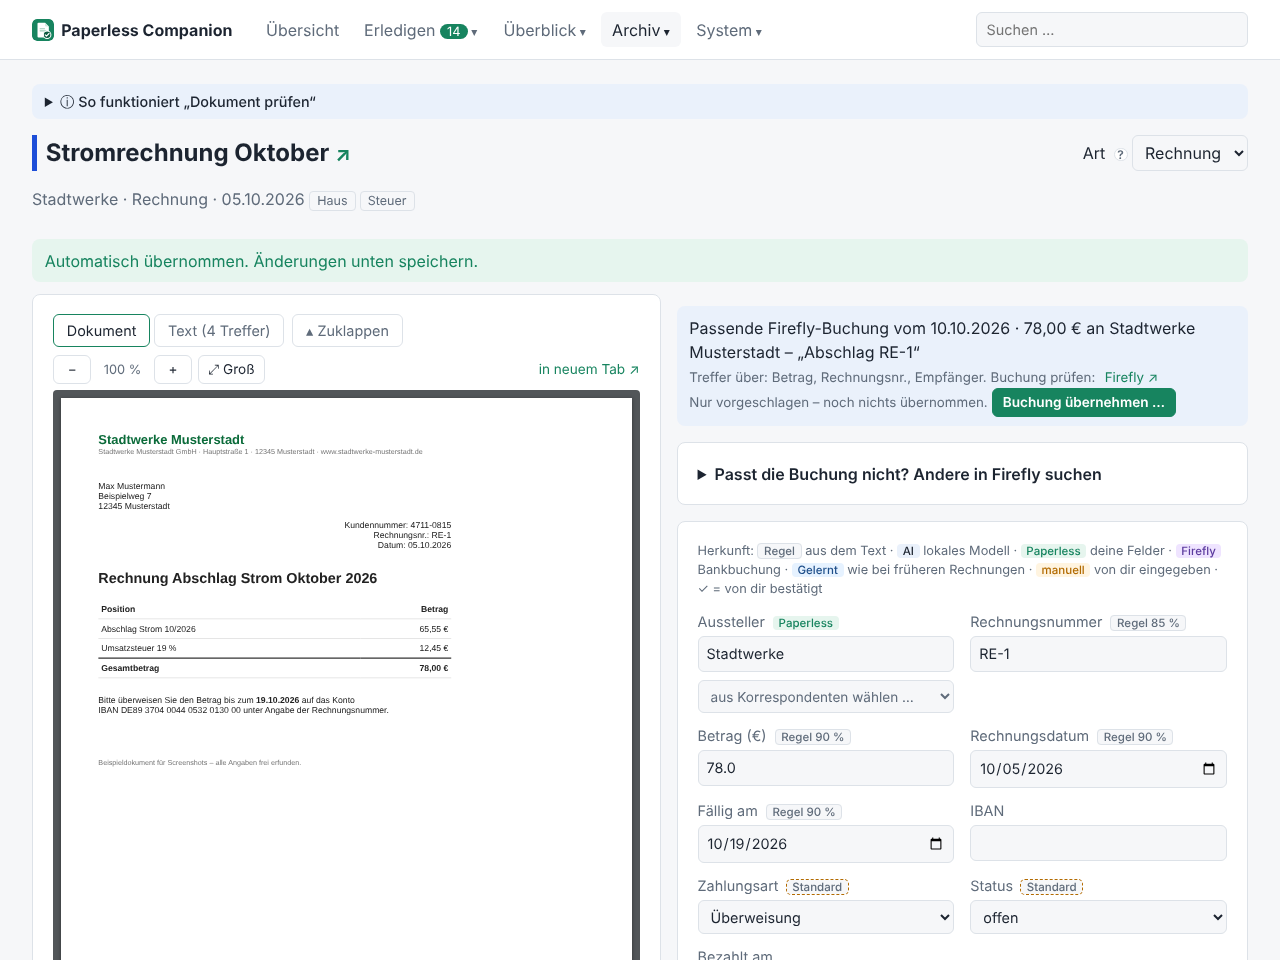
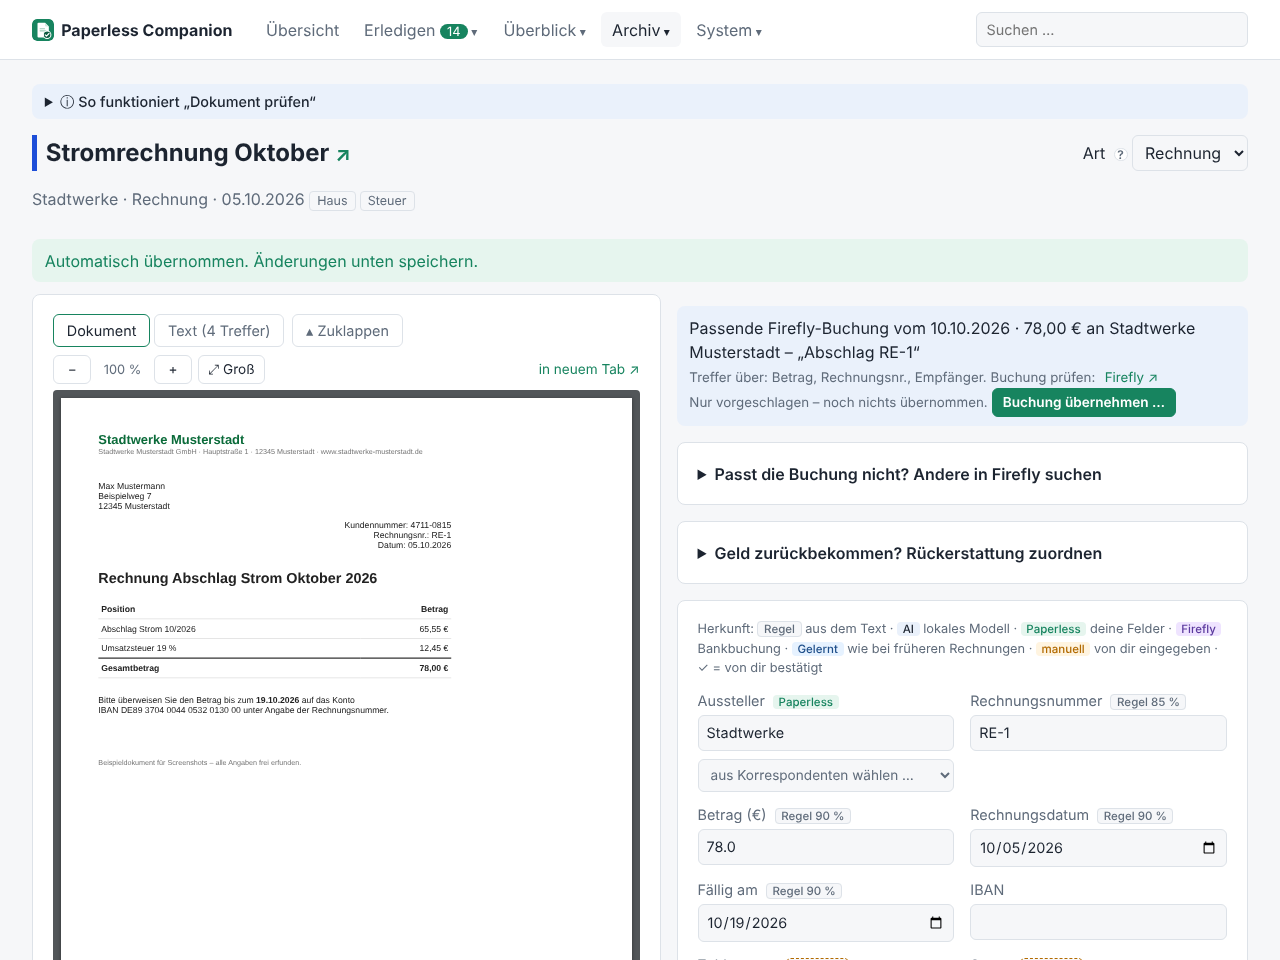
Rückerstattung an Rechnungen (Rücksendung, Gutschrift, Storno)
- Rechnung: Bereich „Rückerstattung zuordnen“ – Gutschrift unter den Firefly-Geldeingängen suchen oder von Hand eintragen
- Rechnung bleibt bezahlt; Rechnungsliste zeigt „… zurück · netto …“, Steuer-Export zählt nur den Rest (mit Hinweis)
- als Rückerstattung verwendete Geldeingänge werden keiner Leistungsabrechnung mehr vorgeschlagen

Claude-Session: https://claude.ai/code/session_01GZFJmjHzpJwZEudqzSRrzQ

diff --git a/app/templates/document.html b/app/templates/document.html
@@ -269,6 +269,51 @@ document.querySelectorAll('.ff-form').forEach((form) => form.addEventListener('s
 })();
 </script>
 {% endif %}
+{% if doc.kind == 'invoice' and doc.invoice and doc.review_state != 'pending' %}
+{% set inv = doc.invoice %}{% set rfd = refund_defaults(doc) %}
+<details class="card refund-box" id="refund" {{ 'open' if inv.refund_amount }}>
+  <summary>{% if inv.refund_amount %}Rückerstattung: {{ inv.refund_amount|eur }} am {{ inv.refunded_on|d }}{% if inv.amount and inv.refund_amount < inv.amount %} · kostet dich noch {{ inv.net_amount|eur }}{% else %} · vollständig erstattet{% endif %}
+    {% else %}Geld zurückbekommen? Rückerstattung zuordnen{% endif %}</summary>
+  {% if inv.refund_amount %}
+  <div>{{ 'Aus Firefly' if inv.refund_tx_id else 'Von dir eingetragen' }}{% if inv.refund_tx_id %}:{{ txlinks(inv.refund_tx_group_id, inv.refunded_on) }}{% endif %}
+    <form method="post" action="/documents/{{ doc.id }}/refund" class="inline"><input type="hidden" name="action" value="clear">
+      <button class="small link">entfernen</button></form></div>
+  {% endif %}
+  <p class="muted"><small>Für Rücksendungen, Gutschriften oder Stornos: die Rechnung bleibt bezahlt, als Kosten zählt nur der Rest
+    (auch im Steuer-Export).</small></p>
+  {% if settings.firefly_url and settings.firefly_token %}
+  <form class="rf-form" data-url="/documents/{{ doc.id }}/firefly-search">
+    <input type="hidden" name="refund" value="1">
+    <div class="grid">
+      <label class="field"><span>Betrag (€)</span><input name="amount" inputmode="decimal" value="{{ '%.2f'|format(rfd.amount) if rfd.amount is not none }}" placeholder="leer = egal"></label>
+      <label class="field"><span>Suchtext (Absender, Verwendungszweck)</span><input name="q" value="{{ rfd.q }}"></label>
+      <label class="field"><span>von</span><input type="date" name="start" value="{{ rfd.start.isoformat() if rfd.start }}"></label>
+      <label class="field"><span>bis</span><input type="date" name="end" value="{{ rfd.end.isoformat() if rfd.end }}"></label>
+    </div>
+    <button class="small primary">Gutschrift in Firefly suchen</button>
+    <small class="muted">Gesucht wird unter den Geldeingängen. Teilerstattungen stehen unter „weitere Buchungen mit anderem Betrag“.</small>
+  </form>
+  <div class="rf-results" aria-live="polite"></div>
+  {% endif %}
+  <form method="post" action="/documents/{{ doc.id }}/refund" class="rf-manual">
+    <span class="muted">Oder von Hand:</span>
+    <input name="amount" inputmode="decimal" placeholder="Betrag €" aria-label="Erstatteter Betrag" value="{{ '%.2f'|format(inv.refund_amount) if inv.refund_amount }}">
+    <input type="date" name="date" aria-label="Erstattet am" value="{{ inv.refunded_on.isoformat() if inv.refunded_on }}">
+    <button class="small">Speichern</button>
+  </form>
+</details>
+<script>
+document.querySelectorAll('.rf-form').forEach((form) => form.addEventListener('submit', async (e) => {
+  e.preventDefault();
+  const out = form.parentElement.querySelector('.rf-results');
+  out.innerHTML = '<p class="muted">Suche in Firefly …</p>';
+  try {
+    const r = await fetch(form.dataset.url + '?' + new URLSearchParams(new FormData(form)));
+    out.innerHTML = await r.text();
+  } catch (err) { out.innerHTML = '<p class="bad">Suche fehlgeschlagen.</p>'; }
+}));
+</script>
+{% endif %}
 <form method="post" action="/documents/{{ doc.id }}/confirm" class="card">
   <p class="legend-sources muted">Herkunft:
     <span class="badge src-rule">Regel</span> aus dem Text ·

diff --git a/app/templates/_firefly_search.html b/app/templates/_firefly_search.html
@@ -11,7 +11,14 @@
     </div>
     <div class="ff-actions">
       {{ txlinks(tx.group_id, tx.date) }}
-      {% if not f.partial %}{# eine von mehreren Teilzahlungen: „übernehmen“ würde die anderen lösen #}
+      {% if refund %}
+      <form method="post" action="/documents/{{ doc.id }}/refund" class="inline">
+        {% for k, v in [('tx_id', tx.journal_id), ('group_id', tx.group_id), ('date', tx.date.isoformat()), ('amount', tx.amount),
+                        ('counterparty', tx.counterparty)] %}
+        <input type="hidden" name="{{ k }}" value="{{ v }}">{% endfor %}
+        <button class="small primary">{{ 'Erneut übernehmen' if f.current else 'Als Rückerstattung übernehmen' }}</button>
+      </form>
+      {% elif not f.partial %}{# eine von mehreren Teilzahlungen: „übernehmen“ würde die anderen lösen #}
       <form method="post" action="/documents/{{ doc.id }}/payment" class="inline ff-choose">
         {% for k, v in [('tx_id', tx.journal_id), ('group_id', tx.group_id), ('date', tx.date.isoformat()), ('amount', tx.amount),
                         ('counterparty', tx.counterparty), ('iban', tx.iban or ''), ('description', tx.description)] %}
@@ -19,7 +26,7 @@
         <button class="small primary">{{ 'Werte erneut übernehmen' if f.current and f.state == 'accepted' else ('Werte übernehmen' if f.current else 'Diese übernehmen') }}</button>
       </form>
       {% endif %}
-      {% if not f.current and doc.kind == 'invoice' and doc.invoice and doc.review_state != 'pending' %}
+      {% if not refund and not f.current and doc.kind == 'invoice' and doc.invoice and doc.review_state != 'pending' %}
       <form method="post" action="/documents/{{ doc.id }}/payment" class="inline ff-choose">
         {% for k, v in [('tx_id', tx.journal_id), ('group_id', tx.group_id), ('date', tx.date.isoformat()), ('amount', tx.amount),
                         ('counterparty', tx.counterparty), ('iban', tx.iban or ''), ('description', tx.description)] %}
@@ -42,7 +49,7 @@
   {% for f in fits %}{{ ff_item(f) }}{% endfor %}
 </ul>
 {% else %}
-<p class="muted">Keine Abbuchung mit passendem Betrag vom {{ start|d }} bis {{ end|d }}.</p>
+<p class="muted">Keine {{ 'Gutschrift' if refund else 'Abbuchung' }} mit passendem Betrag vom {{ start|d }} bis {{ end|d }}.</p>
 {% endif %}
 {% if others %}
 <details class="ff-others" {{ 'open' if not fits }}>
@@ -61,5 +68,5 @@
 </details>
 {% endif %}
 {% else %}
-<p class="muted">Keine passende Abbuchung vom {{ start|d }} bis {{ end|d }} gefunden. Zeitraum erweitern oder Betrag/Suchtext ändern.</p>
+<p class="muted">Keine passende {{ 'Gutschrift' if refund else 'Abbuchung' }} vom {{ start|d }} bis {{ end|d }} gefunden. Zeitraum erweitern oder Betrag/Suchtext ändern.</p>
 {% endif %}

diff --git a/app/templates/invoices.html b/app/templates/invoices.html
@@ -43,7 +43,8 @@
     {% set overdue = i.status == 'open' and i.payment_method != 'debit' and i.due_date and i.due_date < today %}
     <tr class="{{ 'overdue' if overdue }}">
       <td><a href="/documents/{{ i.document_id }}">{{ i.issuer or i.document.title }}</a> {{ doclink(i.document_id) }}</td>
-      <td class="nowrap">{{ i.amount|eur }}{% if i.paid_amount and i.status == 'open' %}<br><small class="muted" title="Teilzahlungen: {{ i.paid_amount|eur }} bezahlt">noch {{ i.open_amount|eur }} offen</small>{% endif %}</td>
+      <td class="nowrap">{{ i.amount|eur }}{% if i.paid_amount and i.status == 'open' %}<br><small class="muted" title="Teilzahlungen: {{ i.paid_amount|eur }} bezahlt">noch {{ i.open_amount|eur }} offen</small>{% endif %}
+        {%- if i.refund_amount %}<br><small class="muted" title="Rückerstattung am {{ i.refunded_on|d }}">{{ i.refund_amount|eur }} zurück{% if i.amount and i.refund_amount < i.amount %} · netto {{ i.net_amount|eur }}{% endif %}</small>{% endif %}</td>
       <td class="nowrap">
         {% if i.payment_method == 'debit' %}<span class="tag">Lastschrift</span>
         {% else %}{{ i.due_date|d }}{% if overdue %} <span class="tag tag-overdue">überfällig</span>{% endif %}{% endif %}

diff --git a/app/static/style.css b/app/static/style.css
@@ -824,3 +824,8 @@ button:disabled, button:disabled:hover { opacity: .5; cursor: not-allowed; }
 .cancel-item { border-top: 1px solid var(--border); padding: .75rem 0 .25rem; }
 .cancel-item:first-of-type { border-top: 0; }
 .cancel-doc small { display: block; }
+
+/* Rückerstattung an einer Rechnung */
+.refund-box > summary { cursor: pointer; font-weight: 600; }
+.rf-manual { display: flex; flex-wrap: wrap; gap: .4rem .6rem; align-items: center; margin-top: .75rem; }
+.rf-manual input { width: 10rem; }

diff --git a/app/main.py b/app/main.py
@@ -101,6 +101,7 @@ def create_app(settings: Settings | None = None, start_worker: bool = True) -> F
 
     templates.env.globals["payment_of"] = payment_of
     templates.env.globals["ff_defaults"] = payments.search_defaults
+    templates.env.globals["refund_defaults"] = payments.refund_defaults
 
     def partials_of(doc: Document) -> list:
         with session_scope() as s:
@@ -521,12 +522,14 @@ def create_app(settings: Settings | None = None, start_worker: bool = True) -> F
 
     @app.get("/documents/{doc_id}/firefly-search", response_class=HTMLResponse)
     def document_firefly_search(request: Request, doc_id: int, amount: str = "", start: str = "", end: str = "", q: str = "",
-                                session: Session = Depends(get_session)):
-        """Buchungen in Firefly zu diesem Dokument suchen (Ergebnisliste wird in die Seite geladen)."""
+                                refund: str = "", session: Session = Depends(get_session)):
+        """Buchungen in Firefly zu diesem Dokument suchen (Ergebnisliste wird in die Seite geladen).
+        Mit refund=1: Geldeingänge als Rückerstattung einer Rechnung."""
         doc = session.get(Document, doc_id)
         if doc is None:
             raise HTTPException(404)
-        d = payments.search_defaults(doc)
+        is_refund = bool(refund) and doc.invoice is not None
+        d = payments.refund_defaults(doc) if is_refund else payments.search_defaults(doc)
         try:
             value = float(amount.replace(",", ".")) if amount.strip() else None
             start_d = date.fromisoformat(start) if start else d["start"]
@@ -541,12 +544,43 @@ def create_app(settings: Settings | None = None, start_worker: bool = True) -> F
         if client is None:
             return HTMLResponse('<p class="bad">Firefly ist nicht eingerichtet (Einstellungen → Firefly).</p>')
         try:
-            found = payments.search(session, doc, client, today(), value, start_d, end_d, q)
+            found = payments.search(session, doc, client, today(), value, start_d, end_d, q, refund=is_refund)
         except FireflyError as exc:
             return HTMLResponse(f'<p class="bad">Firefly nicht erreichbar: {exc}</p>')
         finally:
             client.close()
-        return render(request, "_firefly_search.html", doc=doc, found=found, start=start_d, end=end_d, amount=value)
+        return render(request, "_firefly_search.html", doc=doc, found=found, start=start_d, end=end_d, amount=value,
+                      refund=is_refund)
+
+    @app.post("/documents/{doc_id}/refund")
+    async def document_refund(request: Request, doc_id: int, session: Session = Depends(get_session)):
+        """Rückerstattung zu einer Rechnung: Geldeingang aus Firefly, von Hand eingetragen oder entfernen."""
+        doc = session.get(Document, doc_id)
+        if doc is None or doc.invoice is None:
+            raise HTTPException(404)
+        form = await request.form()
+        from app.firefly import Transaction
+
+        if form.get("action") == "clear":
+            payments.clear_refund(doc)
+            msg = "Rückerstattung entfernt"
+        else:
+            try:
+                amount = pipeline.coerce("float", str(form.get("amount") or ""))
+                day = pipeline.coerce("date", str(form.get("date") or ""))
+            except ValueError:
+                amount = day = None
+            if not amount or day is None:
+                return RedirectResponse(f"/documents/{doc_id}?msg={quote('Bitte Betrag und Datum der Rückerstattung angeben')}#refund",
+                                        status_code=303)
+            tx = None
+            if form.get("tx_id"):
+                tx = Transaction(journal_id=str(form["tx_id"]), group_id=str(form.get("group_id") or ""), date=day,
+                                 amount=amount, counterparty=str(form.get("counterparty") or ""), iban=None,
+                                 description="", text="")
+            result = payments.set_refund(doc, amount, day, tx)
+            msg = f"Rückerstattung {amount:.2f} € vom {day:%d.%m.%Y} gespeichert – {result}".replace(".", ",", 1)
+        return RedirectResponse(f"/documents/{doc_id}?msg={quote(msg)}#refund", status_code=303)
 
     @app.post("/documents/{doc_id}/payment")
     async def document_payment_choose(request: Request, doc_id: int, session: Session = Depends(get_session)):

diff --git a/tests/test_payments.py b/tests/test_payments.py
@@ -370,3 +370,49 @@ def test_assigned_transaction_not_reused(db, settings):
         payments.match(s, [tx("900", date(2026, 10, 10), 78.0, "Stadtwerke", "Abschlag")], settings)
         assert [(m.invoice.document_id, m.tx_id) for m in s.query(PaymentMatch)] == [(2, "900")]  # nur für Dokument 2
         assert payments.used_elsewhere(s, exclude_doc=1) == {"900": 2}
+
+
+def test_refund_on_invoice(client, mock_api):
+    """Rücksendung/Gutschrift: Geldeingang aus Firefly oder von Hand; Rechnung bleibt bezahlt, es zählt der Rest."""
+    from app import tax
+
+    with session_scope() as s:
+        doc = s.get(Document, 1)
+        doc.review_state, doc.tags = "confirmed", ["Steuer"]
+        doc.invoice.amount, doc.invoice.status = 120.0, "paid"
+    route = mock_api.get(f"{FIREFLY}/api/v1/transactions").respond(json={"data": [{"type": "transactions", "id": "77", "attributes": {
+        "transactions": [{"transaction_journal_id": "770", "type": "deposit", "date": "2026-10-20T00:00:00+02:00", "amount": "40.00",
+                          "description": "Gutschrift Rücksendung", "source_name": "Stadtwerke"}]}}],
+        "meta": {"pagination": {"total_pages": 1}}})
+    page = client.get("/documents/1").text
+    assert "Rückerstattung zuordnen" in page
+    html = client.get("/documents/1/firefly-search", params={"refund": "1", "amount": "40", "q": "Stadtwerke",
+                                                             "start": "2026-10-01", "end": "2026-10-31"}).text
+    assert "Als Rückerstattung übernehmen" in html and dict(route.calls.last.request.url.params)["type"] == "deposit"
+    r = client.post("/documents/1/refund", data={"tx_id": "770", "group_id": "77", "date": "2026-10-20", "amount": "40.0",
+                                                 "counterparty": "Stadtwerke"})
+    assert "teilweise erstattet – kostet dich noch 80,00 €" in r.text
+    with session_scope() as s:
+        inv = s.get(Document, 1).invoice
+        assert inv.status == "paid" and inv.refund_amount == 40.0 and inv.net_amount == 80.0 and inv.refund_tx_id == "770"
+        assert payments.refund_transactions(s) == {"770": 1}
+    assert "40,00 € zurück · netto 80,00" in client.get("/invoices?status=all").text
+    client.post("/documents/1/refund", data={"amount": "120,00", "date": "2026-10-21"})  # von Hand: alles zurück
+    with session_scope() as s:
+        assert s.get(Document, 1).invoice.net_amount == 0.0 and s.get(Document, 1).invoice.refund_tx_id is None
+    client.post("/documents/1/refund", data={"action": "clear"})
+    with session_scope() as s:
+        assert s.get(Document, 1).invoice.refund_amount is None
+
+
+def test_tax_counts_net_after_refund(db, settings):
+    from app import tax
+
+    with db() as s:
+        inv = add_invoice(s, 1, 120.0, created=date(2026, 3, 1))
+        inv.document.tags, inv.document.review_state = ["Steuer"], "confirmed"
+        inv.refund_amount, inv.refunded_on = 40.0, date(2026, 3, 20)
+    settings.tax_tags = "Steuer"
+    with db() as s:
+        item = next(i for i in tax.collect(s, 2026, settings) if i.doc.id == 1)
+        assert item.amount == 80.0 and item.refund == "Rückerstattung 40,00 € am 20.03.2026, ursprünglich 120,00 €"

diff --git a/app/payments.py b/app/payments.py
@@ -416,16 +416,54 @@ def search_defaults(doc: Document) -> dict:
             "invoice_number": number, "iban": iban}
 
 
+def refund_defaults(doc: Document) -> dict:
+    """Suche nach der Rückerstattung: ab Rechnung/Zahlung ein halbes Jahr, Betrag der Rechnung, Absender = Aussteller."""
+    inv = doc.invoice
+    base = (inv.paid_on or inv.invoice_date) if inv else None
+    base = base or doc.created
+    return {"amount": inv.amount if inv else None, "start": base, "end": base + timedelta(days=180) if base else None,
+            "q": (inv.issuer if inv else None) or doc.correspondent or ""}
+
+
+def set_refund(doc: Document, amount: float, day: date, tx: Transaction | None = None) -> str:
+    inv = doc.invoice
+    inv.refund_amount, inv.refunded_on = round(amount, 2), day
+    inv.refund_tx_id, inv.refund_tx_group_id = (tx.journal_id, tx.group_id) if tx else (None, None)
+    from app import pipeline
+
+    pipeline.set_source(doc, ["refund_amount", "refunded_on"], "firefly" if tx else "manual", confirmed=True)
+    full = inv.amount is not None and inv.refund_amount >= inv.amount - 0.005
+    return "vollständig erstattet" if full else f"teilweise erstattet – kostet dich noch {inv.net_amount:.2f} €".replace(".", ",")
+
+
+def clear_refund(doc: Document) -> None:
+    inv = doc.invoice
+    inv.refund_amount = inv.refunded_on = inv.refund_tx_id = inv.refund_tx_group_id = None
+
+
+def refund_transactions(session: Session, exclude_doc: int | None = None) -> dict[str, int]:
+    """Geldeingänge, die schon als Rückerstattung einer Rechnung gelten (tx_id -> Dokument)."""
+    return {inv.refund_tx_id: inv.document_id for inv in session.scalars(select(Invoice).where(Invoice.refund_tx_id.is_not(None)))
+            if inv.document_id != exclude_doc}
+
+
 def search(session: Session, doc: Document, client: FireflyClient, today: date, amount: float | None,
-           start: date, end: date, q: str = "", limit: int = 30) -> list[dict]:
+           start: date, end: date, q: str = "", limit: int = 30, refund: bool = False) -> list[dict]:
     """Abbuchungen im Zeitraum, die zu Betrag, Suchtext, Rechnungsnr. oder IBAN passen – beste zuerst."""
     from app import reimbursements
 
     d = search_defaults(doc)
     words = _words(q)
-    incoming = doc.kind == "reimbursement"  # Erstattung: Geldeingänge statt Abbuchungen
+    incoming = doc.kind == "reimbursement" or refund  # Erstattung/Rückerstattung: Geldeingänge statt Abbuchungen
     partial_ids: set[str] = set()
-    if incoming:
+    if refund:
+        from app.models import Reimbursement
+
+        used = {r.tx_id: r.document_id for r in session.scalars(select(Reimbursement).where(Reimbursement.tx_id.is_not(None)))}
+        used.update(refund_transactions(session, exclude_doc=doc.id))
+        current = doc.invoice.refund_tx_id if doc.invoice else None
+        current_state = "accepted"
+    elif incoming:
         from app.models import Reimbursement
 
         used = {r.tx_id: r.document_id for r in session.scalars(select(Reimbursement).where(Reimbursement.tx_id.is_not(None)))

diff --git a/app/tax.py b/app/tax.py
@@ -59,12 +59,13 @@ def _candidates(session: Session):
     return session.scalars(select(Document).options(selectinload(Document.invoice)))
 
 
+def eur(value) -> str:
+    return "?" if value is None else f"{value:,.2f} €".replace(",", "X").replace(".", ",").replace("X", ".")
+
+
 def refund_notes(session: Session) -> dict[int, str]:
     """Je Rechnung die Erstattung(en), mit denen sie in Paperless verknüpft ist – Eigenanteil je Abrechnung."""
     from app import reimbursements
-
-    def eur(value):
-        return "?" if value is None else f"{value:,.2f} €".replace(",", "X").replace(".", ",").replace("X", ".")
 
     notes: dict[int, list[str]] = {}
     graph = reimbursements.related_graph(session)
@@ -85,7 +86,13 @@ def collect(session: Session, year: int, settings: Settings) -> list[TaxItem]:
             continue
         category = category_for(doc, settings)
         if category:
-            items.append(TaxItem(doc, category, doc.invoice.amount if doc.invoice else None, refunds.get(doc.id, "")))
+            inv = doc.invoice
+            note = refunds.get(doc.id, "")
+            if inv is not None and inv.refund_amount:  # Rücksendung/Gutschrift: nur der Rest zählt
+                text = (f"Rückerstattung {eur(inv.refund_amount)} am {inv.refunded_on:%d.%m.%Y}" if inv.refunded_on
+                        else f"Rückerstattung {eur(inv.refund_amount)}")
+                note = "; ".join(filter(None, [note, text + f", ursprünglich {eur(inv.amount)}" if inv.amount else text]))
+            items.append(TaxItem(doc, category, inv.net_amount if inv else None, note))
     items.sort(key=lambda i: (i.category.lower(), i.doc.created or i.doc.id))
     return items
 

diff --git a/app/models.py b/app/models.py
@@ -132,8 +132,20 @@ class Invoice(Base):
     paid_on: Mapped[date | None] = mapped_column(Date)
     # Teilzahlungen: Summe der zugeordneten Buchungen, solange die Rechnung nicht ganz bezahlt ist (sonst leer)
     paid_amount: Mapped[float | None] = mapped_column(Float)
+    # Rückerstattung (Rücksendung, Gutschrift, Storno): Geld kam ganz oder teilweise zurück
+    refund_amount: Mapped[float | None] = mapped_column(Float)
+    refunded_on: Mapped[date | None] = mapped_column(Date)
+    refund_tx_id: Mapped[str | None] = mapped_column(String)
+    refund_tx_group_id: Mapped[str | None] = mapped_column(String)
 
     document: Mapped[Document] = relationship(back_populates="invoice")
+
+    @property
+    def net_amount(self) -> float | None:
+        """Was die Rechnung dich am Ende gekostet hat (Betrag abzüglich Rückerstattung)."""
+        if self.amount is None:
+            return None
+        return round(max(self.amount - (self.refund_amount or 0), 0), 2)
 
     @property
     def open_amount(self) -> float | None:

diff --git a/app/reimbursements.py b/app/reimbursements.py
@@ -162,8 +162,10 @@ def score(rec: Reimbursement, doc: Document, tx: Transaction) -> tuple[int, list
 
 
 def used_transactions(session: Session, exclude: int | None = None) -> set[str]:
+    from app.payments import refund_transactions  # Rückerstattungen einzelner Rechnungen sind schon vergeben
+
     return {r.tx_id for r in session.scalars(select(Reimbursement).where(Reimbursement.tx_id.is_not(None)))
-            if r.document_id != exclude}
+            if r.document_id != exclude} | set(refund_transactions(session))
 
 
 def match(session: Session, deposits: list[Transaction]) -> int:
